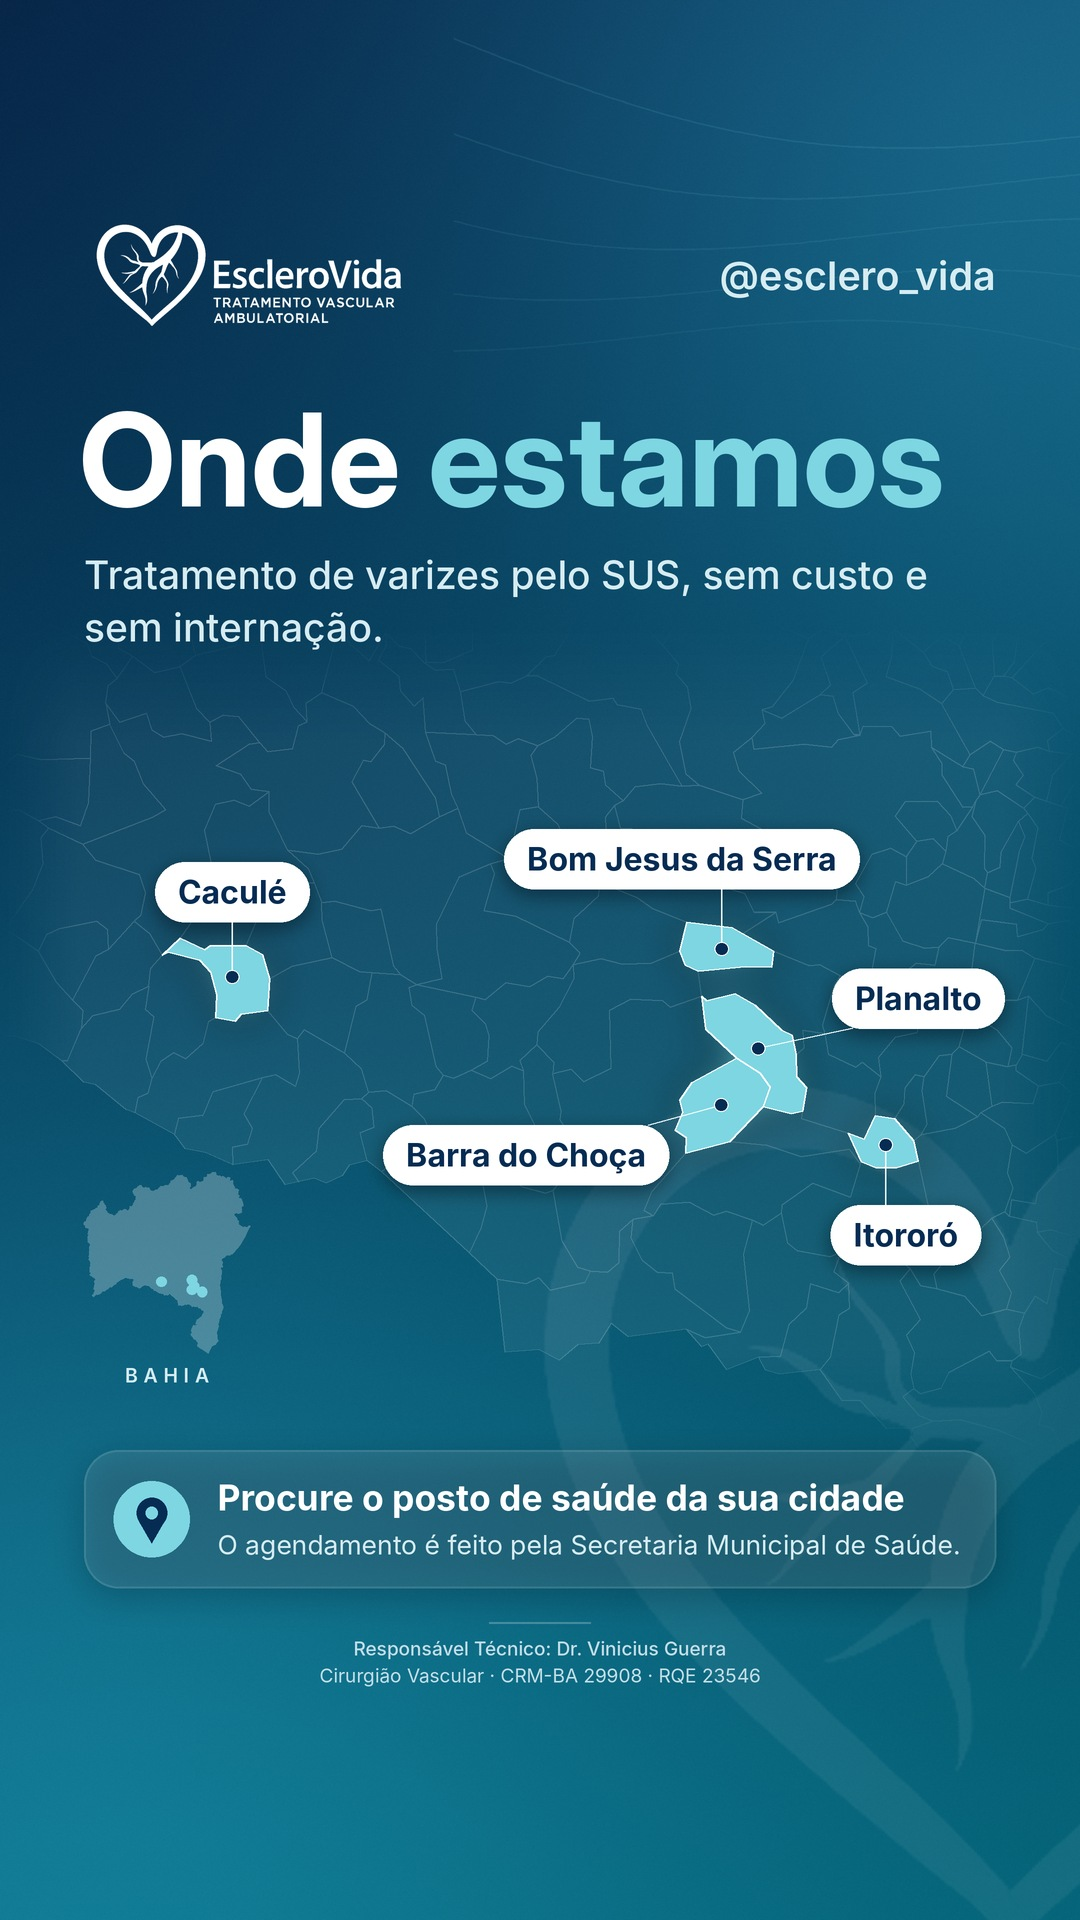
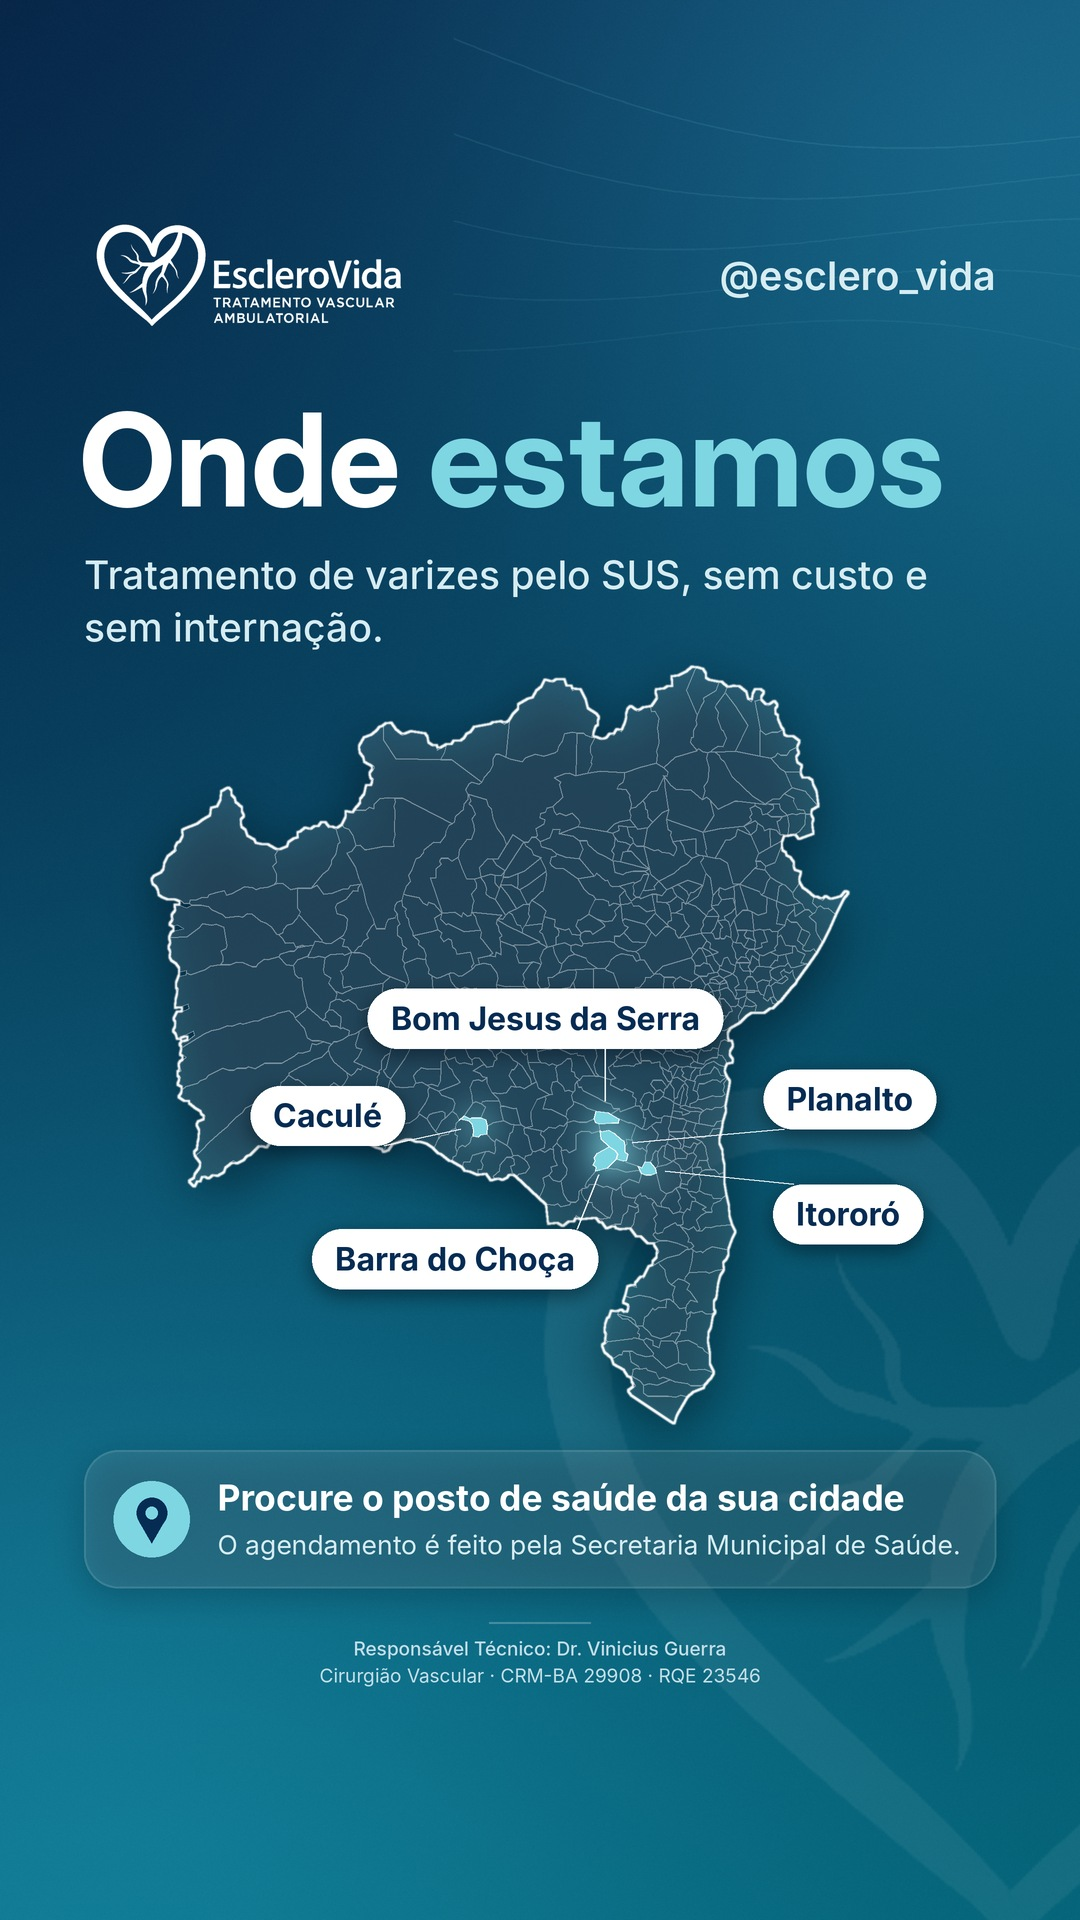
Mapa Onde estamos: Bahia inteira com contorno forte e linhas municipais mais visíveis
Claude-Session: https://claude.ai/code/session_01M29iTLLFwMWrnxrojtZwME

Changed region(s): [[0.0611, 0.3438, 0.9472, 0.75]]

diff --git a/gerador/mapa.py b/gerador/mapa.py
@@ -18,6 +18,8 @@ JSON:
       },
       "cta_titulo": "Procure o posto de saúde da sua cidade",
       "cta_texto": "O agendamento é feito pela Secretaria Municipal de Saúde.",
+      "vista": "estado" | "regiao",               # estado (padrão): Bahia inteira; regiao: zoom nas cidades
+      "mapa_escala": 1.0, "mapa_dx": 0,            # ajustes finos do mapa do estado
       "mapa_altura": 560,                          # altura da área do mapa (px)
       "mapa_largura": 0.70,                        # fração da largura ocupada pelas cidades
       "mapa_dy": 0,                                # desloca o mapa na vertical (px)
@@ -106,37 +108,61 @@ def render(p, saida):
     h_mapa = h_mapa * S if h_mapa else y_bar - z(24) - y_mapa
 
     # ---------- projeção ----------
-    pts = [pt for m in muns if m["nome"] in alvo for a in m["aneis"] for pt in a]
-    lon0, lon1 = min(q[0] for q in pts), max(q[0] for q in pts)
-    lat0, lat1 = min(q[1] for q in pts), max(q[1] for q in pts)
+    estado = p.get("vista", "estado") == "estado"      # "estado": Bahia inteira; "regiao": zoom nas cidades
+    ref = [q for m in muns if estado or m["nome"] in alvo for a in m["aneis"] for q in a]
+    lon0, lon1 = min(q[0] for q in ref), max(q[0] for q in ref)
+    lat0, lat1 = min(q[1] for q in ref), max(q[1] for q in ref)
     latm = math.radians((lat0 + lat1) / 2)
-    k = W * p.get("mapa_largura", 0.70) / ((lon1 - lon0) * math.cos(latm))     # px por grau
+    if estado:
+        k = h_mapa / (lat1 - lat0) * p.get("mapa_escala", 1.0)                 # px por grau
+    else:
+        k = W * p.get("mapa_largura", 0.70) / ((lon1 - lon0) * math.cos(latm))
     cx0 = W / 2 + p.get("mapa_dx", 0) * S
     cy0 = y_mapa + h_mapa / 2 + p.get("mapa_dy", 0) * S
 
     def xy(lon, lat):
         return (cx0 + (lon - (lon0 + lon1) / 2) * math.cos(latm) * k, cy0 - (lat - (lat0 + lat1) / 2) * k)
 
-    # ---------- mapa da região ----------
+    # ---------- mapa ----------
     mapa = R.camada(img)
     dm = ImageDraw.Draw(mapa)
+    sil = Image.new("L", img.size, 0)
+    ds = ImageDraw.Draw(sil)
+    a_fill, a_linha = (30, 120) if estado else (13, 52)
     for m in muns:
         for a in m["aneis"]:
             pol = [xy(*q) for q in a]
             if max(q[0] for q in pol) < -50 or min(q[0] for q in pol) > W + 50:
                 continue
-            dm.polygon(pol, fill=WHITE + (13,))
-            dm.line(pol + [pol[0]], fill=WHITE + (52,), width=S, joint="curve")
-    # some suavemente nas bordas da área do mapa
-    yy = np.arange(H, dtype=np.float32)
-    borda = h_mapa * 0.16
-    mv = np.clip(np.minimum(yy - (y_mapa - borda * 0.4), (y_mapa + h_mapa + borda * 0.4) - yy) / borda, 0, 1)
-    xx = np.arange(W, dtype=np.float32)
-    mh = np.clip(np.minimum(xx, W - xx) / (W * 0.07), 0, 1)
-    masc = (mv[:, None] * mh[None, :]) ** 1.2
-    al = np.asarray(mapa.getchannel("A")).astype(np.float32) * masc
-    mapa.putalpha(Image.fromarray(al.astype(np.uint8), "L"))
-    img = Image.alpha_composite(img, mapa)
+            dm.polygon(pol, fill=WHITE + (a_fill,))
+            dm.line(pol + [pol[0]], fill=WHITE + (a_linha,), width=S, joint="curve")
+            ds.polygon(pol, fill=255)
+    if estado:
+        # contorno forte do estado + sombra, para a Bahia ser reconhecida de imediato
+        sil = sil.filter(ImageFilter.MaxFilter(9)).filter(ImageFilter.MinFilter(9))
+        borda = Image.fromarray(np.clip(
+            np.asarray(sil.filter(ImageFilter.MaxFilter(7))).astype(np.int16)
+            - np.asarray(sil.filter(ImageFilter.MinFilter(3))).astype(np.int16), 0, 255).astype(np.uint8), "L")
+        sh = Image.new("RGBA", img.size, (0, 16, 36, 0))
+        sh.putalpha(sil.point(lambda v: v * 0.55))
+        deslocada = R.camada(img)
+        deslocada.alpha_composite(sh, (0, round(z(14))))
+        img = Image.alpha_composite(img, deslocada.filter(ImageFilter.GaussianBlur(z(22))))
+        img = Image.alpha_composite(img, mapa)
+        cont = Image.new("RGBA", img.size, WHITE + (0,))
+        cont.putalpha(borda.filter(ImageFilter.GaussianBlur(S * 0.6)))
+        img = Image.alpha_composite(img, cont)
+    else:
+        # some suavemente nas bordas da área do mapa
+        yy = np.arange(H, dtype=np.float32)
+        borda = h_mapa * 0.16
+        mv = np.clip(np.minimum(yy - (y_mapa - borda * 0.4), (y_mapa + h_mapa + borda * 0.4) - yy) / borda, 0, 1)
+        xx = np.arange(W, dtype=np.float32)
+        mh = np.clip(np.minimum(xx, W - xx) / (W * 0.07), 0, 1)
+        masc = (mv[:, None] * mh[None, :]) ** 1.2
+        al = np.asarray(mapa.getchannel("A")).astype(np.float32) * masc
+        mapa.putalpha(Image.fromarray(al.astype(np.uint8), "L"))
+        img = Image.alpha_composite(img, mapa)
 
     # municípios em destaque (com brilho)
     dest = R.camada(img)
@@ -147,8 +173,9 @@ def render(p, saida):
             for a in m["aneis"]:
                 dd.polygon([xy(*q) for q in a], fill=R.AQUA + (255,))
             centros[m["nome"]] = xy(*centro(m["aneis"]))
-    brilho = dest.filter(ImageFilter.GaussianBlur(z(16)))
-    brilho.putalpha(brilho.getchannel("A").point(lambda v: v * 0.55))
+    brilho = Image.new("RGBA", img.size, R.AQUA + (0,))
+    brilho.putalpha(dest.getchannel("A").filter(ImageFilter.GaussianBlur(z(14)))
+                    .point(lambda v: min(255, v * (1.6 if estado else 0.55))))
     img = Image.alpha_composite(img, brilho)
     img = Image.alpha_composite(img, dest)
     d = ImageDraw.Draw(img)
@@ -156,7 +183,7 @@ def render(p, saida):
         if m["nome"] in alvo:
             for a in m["aneis"]:
                 pol = [xy(*q) for q in a]
-                d.line(pol + [pol[0]], fill=WHITE, width=round(1.5 * S), joint="curve")
+                d.line(pol + [pol[0]], fill=WHITE, width=round((1.0 if estado else 1.5) * S), joint="curve")
 
     # ---------- rótulos ----------
     fl = R.font("Inter-Bold.otf", z(28))
@@ -171,9 +198,15 @@ def render(p, saida):
         ey = box[3] if py > ly else box[1]
         lay = R.camada(img)
         ld = ImageDraw.Draw(lay)
-        ld.line([(px, py), (ex, ey)], fill=WHITE + (235,), width=round(1.5 * S))
-        r = z(6)
-        ld.ellipse([px - r, py - r, px + r, py + r], fill=R.DEEP + (255,), outline=WHITE + (255,), width=S)
+        sx, sy = px, py
+        if estado:          # a linha para um pouco antes do município, para não cobrir o destaque
+            dist = math.hypot(ex - px, ey - py) or 1
+            rec = min(z(15), dist * 0.4)
+            sx, sy = px + (ex - px) / dist * rec, py + (ey - py) / dist * rec
+        ld.line([(sx, sy), (ex, ey)], fill=WHITE + (235,), width=round(1.5 * S))
+        if not estado:      # no mapa do estado o município é pequeno: o ponto esconderia o destaque
+            r = z(6)
+            ld.ellipse([px - r, py - r, px + r, py + r], fill=R.DEEP + (255,), outline=WHITE + (255,), width=S)
         sh = R.camada(img)
         ImageDraw.Draw(sh).rounded_rectangle([box[0], box[1] + z(5), box[2], box[3] + z(5)], radius=bh / 2,
                                              fill=(0, 16, 36, 130))
@@ -185,7 +218,7 @@ def render(p, saida):
 
     # ---------- mapa pequeno da Bahia ----------
     b = p.get("bahia")
-    if b is not False:
+    if b is not False and not estado:
         b = b or {}
         bh_ = b.get("h", 150) * S
         allp = [q for m in muns for a in m["aneis"] for q in a]
